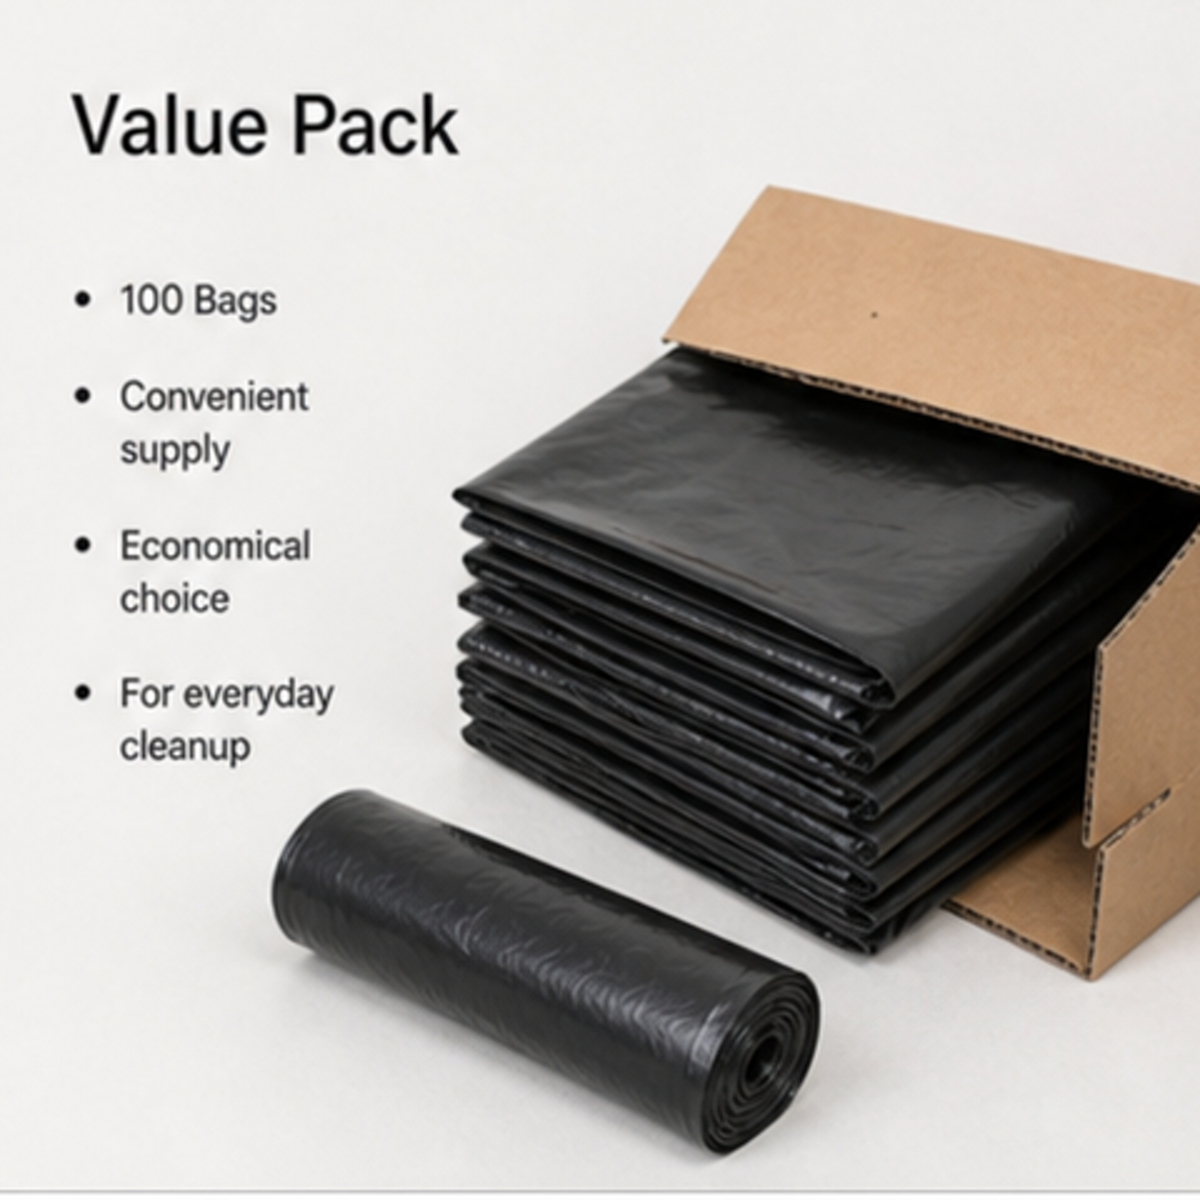
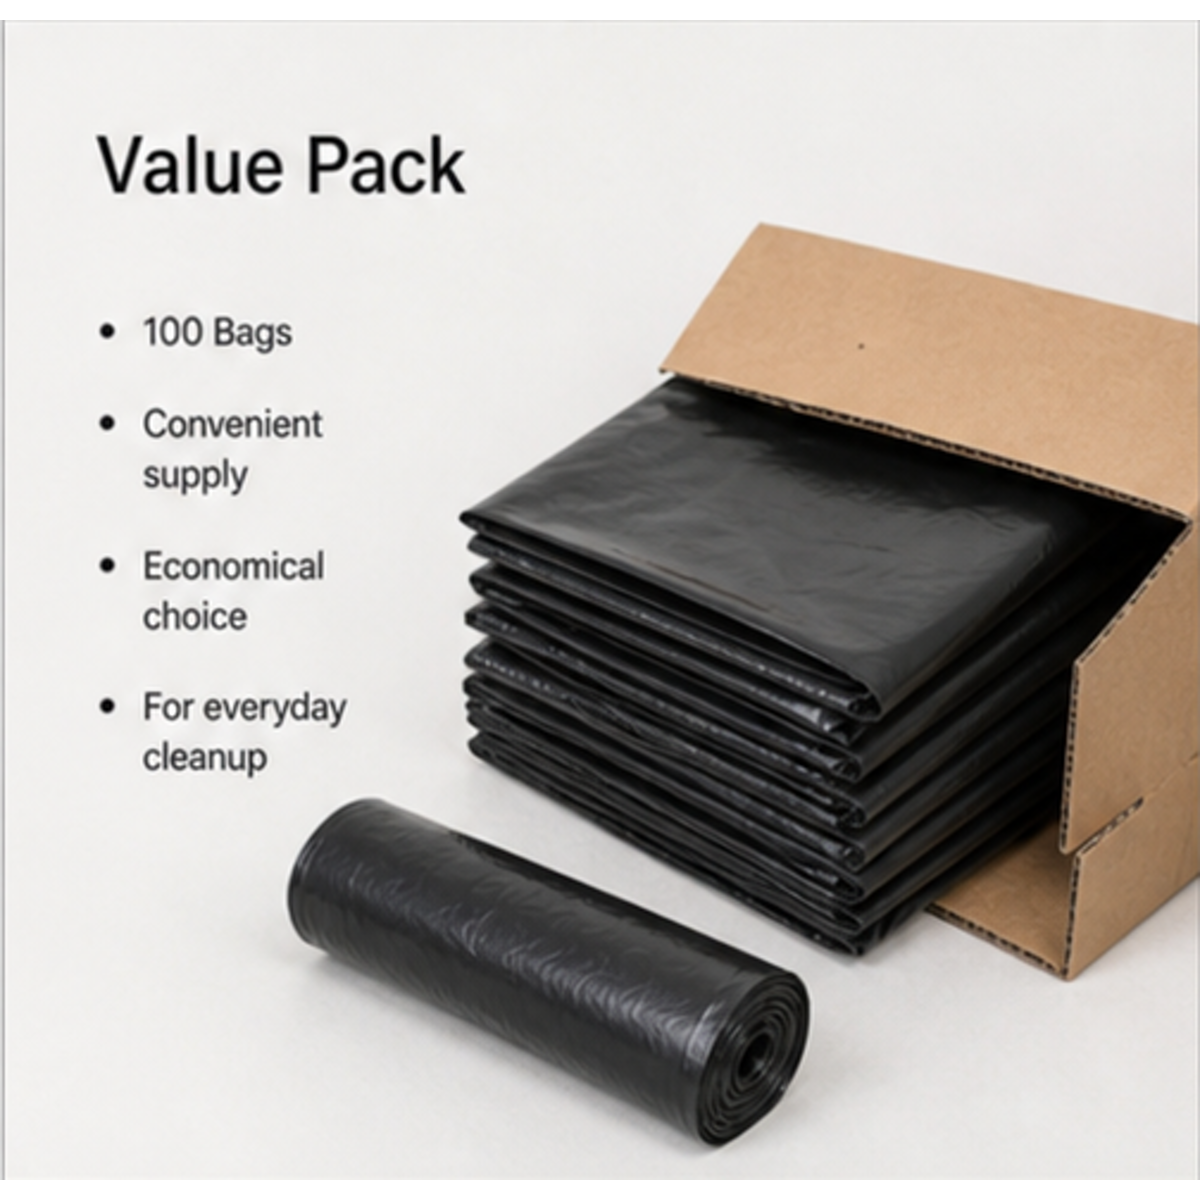
Refit all before galleries to square frames

diff --git a/index.html b/index.html
@@ -135,23 +135,23 @@
         </div>
         <div class="phase-strip">
           <div class="ph-cell">
-            <img class="shot ph-before" src="assets/img/work/zont/before-v2-02.png?v=e678bc43" alt="Smart home controller, slide 2 before" loading="lazy" decoding="async">
+            <img class="shot ph-before" src="assets/img/work/zont/before-v2-02.png?v=f758d8b7" alt="Smart home controller, slide 2 before" loading="lazy" decoding="async">
             <img class="shot ph-after"  src="assets/img/work/zont/02-sm.webp?v=d5131ae9" alt="Smart home controller, slide 2 after" loading="lazy" decoding="async">
           </div>
           <div class="ph-cell">
-            <img class="shot ph-before" src="assets/img/work/zont/before-v2-03.png?v=ffc20efc" alt="Smart home controller, slide 3 before" loading="lazy" decoding="async">
+            <img class="shot ph-before" src="assets/img/work/zont/before-v2-03.png?v=6d998490" alt="Smart home controller, slide 3 before" loading="lazy" decoding="async">
             <img class="shot ph-after"  src="assets/img/work/zont/03-sm.webp?v=2f3a2d77" alt="Smart home controller, slide 3 after" loading="lazy" decoding="async">
           </div>
           <div class="ph-cell">
-            <img class="shot ph-before" src="assets/img/work/zont/before-v2-04.png?v=26efc0be" alt="Smart home controller, slide 4 before" loading="lazy" decoding="async">
+            <img class="shot ph-before" src="assets/img/work/zont/before-v2-04.png?v=6aefef40" alt="Smart home controller, slide 4 before" loading="lazy" decoding="async">
             <img class="shot ph-after"  src="assets/img/work/zont/04-sm.webp?v=2d507ef8" alt="Smart home controller, slide 4 after" loading="lazy" decoding="async">
           </div>
           <div class="ph-cell">
-            <img class="shot ph-before" src="assets/img/work/zont/before-v2-05.png?v=a5736f1c" alt="Smart home controller, slide 5 before" loading="lazy" decoding="async">
+            <img class="shot ph-before" src="assets/img/work/zont/before-v2-05.png?v=51193282" alt="Smart home controller, slide 5 before" loading="lazy" decoding="async">
             <img class="shot ph-after"  src="assets/img/work/zont/05-sm.webp?v=eca8fa42" alt="Smart home controller, slide 5 after" loading="lazy" decoding="async">
           </div>
           <div class="ph-cell">
-            <img class="shot ph-before" src="assets/img/work/zont/before-v2-06.png?v=b83178ef" alt="Smart home controller, slide 6 before" loading="lazy" decoding="async">
+            <img class="shot ph-before" src="assets/img/work/zont/before-v2-06.png?v=b10e69d1" alt="Smart home controller, slide 6 before" loading="lazy" decoding="async">
             <img class="shot ph-after"  src="assets/img/work/zont/06-sm.webp?v=8aa086f5" alt="Smart home controller, slide 6 after" loading="lazy" decoding="async">
           </div>
         </div>
@@ -175,23 +175,23 @@
         </div>
         <div class="phase-strip">
           <div class="ph-cell">
-            <img class="shot ph-before" src="assets/img/work/trash-bags/before-v2-02.png?v=19fd735a" alt="Heavy duty trash bags, slide 2 before" loading="lazy" decoding="async">
+            <img class="shot ph-before" src="assets/img/work/trash-bags/before-v2-02.png?v=e3a863fd" alt="Heavy duty trash bags, slide 2 before" loading="lazy" decoding="async">
             <img class="shot ph-after"  src="assets/img/work/trash-bags/02-sm.webp?v=d834e921" alt="Heavy duty trash bags, slide 2 after" loading="lazy" decoding="async">
           </div>
           <div class="ph-cell">
-            <img class="shot ph-before" src="assets/img/work/trash-bags/before-v2-03.png?v=4fb68f9c" alt="Heavy duty trash bags, slide 3 before" loading="lazy" decoding="async">
+            <img class="shot ph-before" src="assets/img/work/trash-bags/before-v2-03.png?v=6d0d94e6" alt="Heavy duty trash bags, slide 3 before" loading="lazy" decoding="async">
             <img class="shot ph-after"  src="assets/img/work/trash-bags/03-sm.webp?v=15657925" alt="Heavy duty trash bags, slide 3 after" loading="lazy" decoding="async">
           </div>
           <div class="ph-cell">
-            <img class="shot ph-before" src="assets/img/work/trash-bags/before-v2-04.png?v=c5942f72" alt="Heavy duty trash bags, slide 4 before" loading="lazy" decoding="async">
+            <img class="shot ph-before" src="assets/img/work/trash-bags/before-v2-04.png?v=c921993a" alt="Heavy duty trash bags, slide 4 before" loading="lazy" decoding="async">
             <img class="shot ph-after"  src="assets/img/work/trash-bags/04-sm.webp?v=f94efa8e" alt="Heavy duty trash bags, slide 4 after" loading="lazy" decoding="async">
           </div>
           <div class="ph-cell">
-            <img class="shot ph-before" src="assets/img/work/trash-bags/before-v2-05.png?v=bd0a0f08" alt="Heavy duty trash bags, slide 5 before" loading="lazy" decoding="async">
+            <img class="shot ph-before" src="assets/img/work/trash-bags/before-v2-05.png?v=b52c6c94" alt="Heavy duty trash bags, slide 5 before" loading="lazy" decoding="async">
             <img class="shot ph-after"  src="assets/img/work/trash-bags/05-sm.webp?v=718f8587" alt="Heavy duty trash bags, slide 5 after" loading="lazy" decoding="async">
           </div>
           <div class="ph-cell">
-            <img class="shot ph-before" src="assets/img/work/trash-bags/before-v2-06.png?v=7726c881" alt="Heavy duty trash bags, slide 6 before" loading="lazy" decoding="async">
+            <img class="shot ph-before" src="assets/img/work/trash-bags/before-v2-06.png?v=9ce0a4bd" alt="Heavy duty trash bags, slide 6 before" loading="lazy" decoding="async">
             <img class="shot ph-after"  src="assets/img/work/trash-bags/06-sm.webp?v=c58429a7" alt="Heavy duty trash bags, slide 6 after" loading="lazy" decoding="async">
           </div>
         </div>
